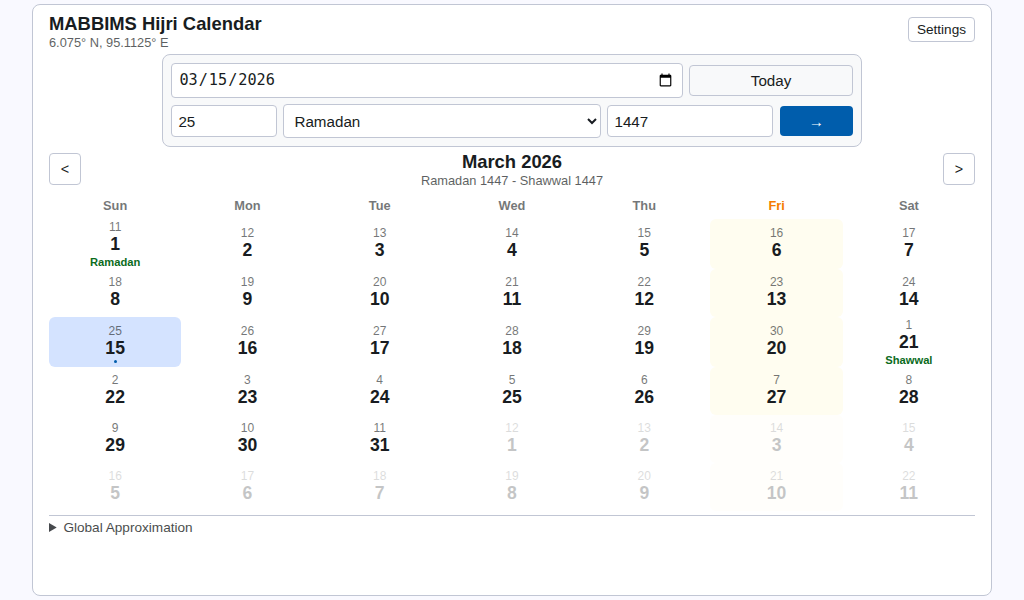
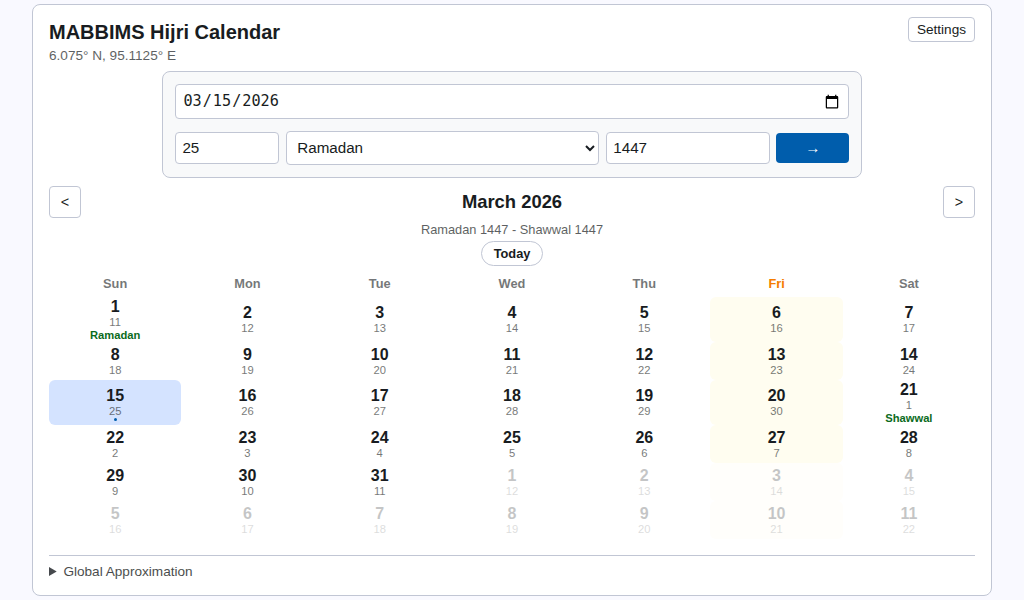
Refine Hijri UI: Swap date positions and restore spacing
- Swap date positions in calendar grid (Primary date top, Secondary bottom).
- Restore original margins and padding for container and header elements.
- Fine-tune day cell height and font sizes to maintain 1024x600 compatibility.
- Ensure the 'Today' button remains visible in the modest card layout.

diff --git a/HijriCalc.html b/HijriCalc.html
@@ -85,16 +85,16 @@
 			border-radius: 8px;
 			max-width: 960px;
 			width: 100%;
-			padding: 0.5rem 1rem;
+			padding: 0.75rem 1rem;
 			position: relative;
 			margin: 0;
 		}
 		h1 {
-			font-size: 1.15rem;
-			margin: 0;
+			font-size: 1.25rem;
+			margin: 0.25rem 0;
 		}
 		h2, h3, label {
-			margin: 0;
+			margin: 0.25rem 0;
 		}
 		label { 
 			display: block; 
@@ -166,7 +166,7 @@
 			opacity: 1;
 		}
 		.day-cell {
-			min-height: 48px;
+			min-height: 38px;
 			padding: 1px;
 			display: flex;
 			flex-direction: column;
@@ -194,12 +194,12 @@
 			z-index: 10; 
 		}
 		.primary-date {
-			font-size: 1.1rem;
+			font-size: 1rem;
 			font-weight: 700; 
 			margin-bottom: 0;
 		}
 		.secondary-date {
-			font-size: 0.75rem;
+			font-size: 0.7rem;
 			opacity: 0.6;
 		}
 		.hijri-month-label {
@@ -278,13 +278,13 @@
 		.controls { 
 			display: flex; 
 			justify-content: center;
-			margin-bottom: 0.25rem;
+			margin-bottom: 0.5rem;
 		}
 		.control-group {
 			width: 100%;
 			max-width: 700px;
 			background: var(--formula-bg);
-			padding: 0.5rem;
+			padding: 0.75rem;
 			border-radius: 8px;
 			border: 1px solid var(--border);
 		}
@@ -407,7 +407,7 @@
 		.input-group {
 			display: flex;
 			gap: 0.4rem;
-			margin-bottom: 0.4rem;
+			margin-bottom: 0.75rem;
 			align-items: center;
 		}
 		.input-group > * {
@@ -439,9 +439,9 @@
 			font-weight: bold;
 		}
 		details {
-			margin-top: 0.25rem;
+			margin-top: 1rem;
 			border-top: 1px solid var(--border);
-			padding-top: 0.25rem;
+			padding-top: 0.5rem;
 		}
 		summary {
 			cursor: pointer;
@@ -461,13 +461,12 @@
 			<button id="prefBtn" class="secondary" style="width:auto; padding: 4px 8px; font-size: 0.85rem;" data-i18n="prefTitle"></button>
 		</div>
 		<h1 id="appTitle" data-i18n="appTitle"></h1>
-		<p id="appSubtitle" style="opacity: 0.7; margin-bottom: 0.25rem; font-size: 0.8rem;"></p>
+		<p id="appSubtitle" style="opacity: 0.7; margin-bottom: 0.5rem; font-size: 0.85rem;"></p>
 		<div class="controls">
 			<div class="control-group">
 				<label class="sr-only" data-i18n="gDateLabel"></label>
 				<div class="input-group">
-					<input type="date" id="gDateInput" data-i18n-aria="gDateLabel" style="flex: 1;">
-					<button id="todayBtn" class="secondary" style="flex: 0.3; padding: 0.4rem;" data-i18n="today"></button>
+					<input type="date" id="gDateInput" data-i18n-aria="gDateLabel">
 				</div>
 				<div class="input-group" style="margin-bottom:0">
 					<input type="number" id="hDayInput" placeholder="D" min="1" max="30" data-i18n-aria="hDayLabel">
@@ -480,12 +479,11 @@
 		<div class="calendar-card">
 			<div class="calendar-card-header">
 				<button id="prevMonthBtn" class="nav-btn" data-i18n-aria="prevMonthLabel">&lt;</button>
-				<div style="text-align: center;">
-					<h2 id="monthDisplay"></h2>
-					<div id="hijriRangeDisplay" class="calendar-card-subtitle"></div>
-				</div>
+				<h2 id="monthDisplay"></h2>
 				<button id="nextMonthBtn" class="nav-btn" data-i18n-aria="nextMonthLabel">&gt;</button>
 			</div>
+			<div id="hijriRangeDisplay" class="calendar-card-subtitle"></div>
+			<button id="todayBtn" class="pill-btn" data-i18n="today"></button>
 		</div>
 		<div class="calendar-grid" id="calendar"></div>
 		<details>
@@ -1203,8 +1201,8 @@
 				element.setAttribute('aria-label', `${fullDate}, ${hijriInfo.day} ${hijriInfo.monthName}`),
 				element.dataset.date = `${String(date.getFullYear()).padStart(4, '0')}-${String(date.getMonth() + 1).padStart(2, '0')}-${String(date.getDate()).padStart(2, '0')}`,
 				element.innerHTML = `
-					<div class="secondary-date">${secondaryValue}${secondarySuffix}</div>
 					<div class="primary-date">${primaryText}</div>
+					<div class="secondary-date">${secondaryValue}${secondarySuffix}</div>
 					${hijriInfo.showMonth ? `<div class="hijri-month-label">${hijriInfo.monthName}</div>` : ''}
 					${isToday ? '<div class="today-dot"></div>' : ''}
 				`,
